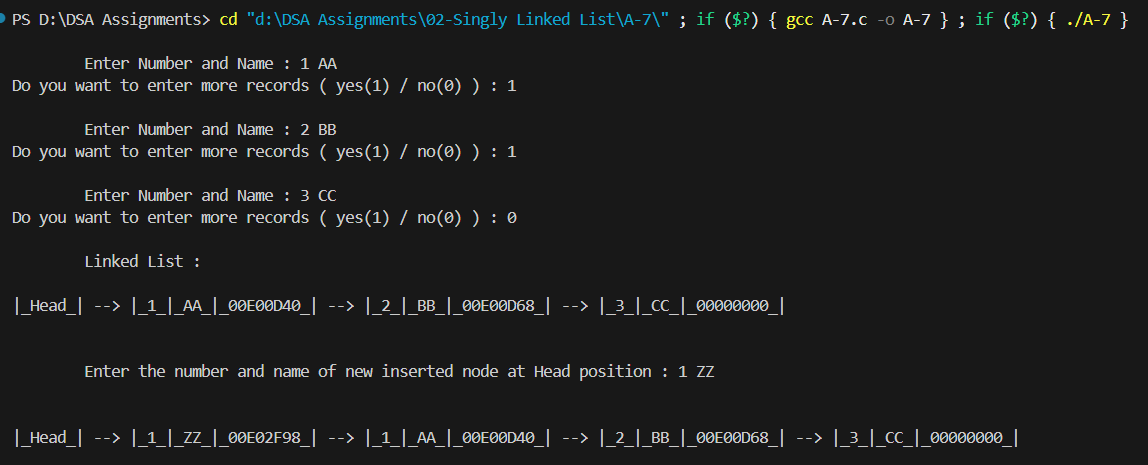
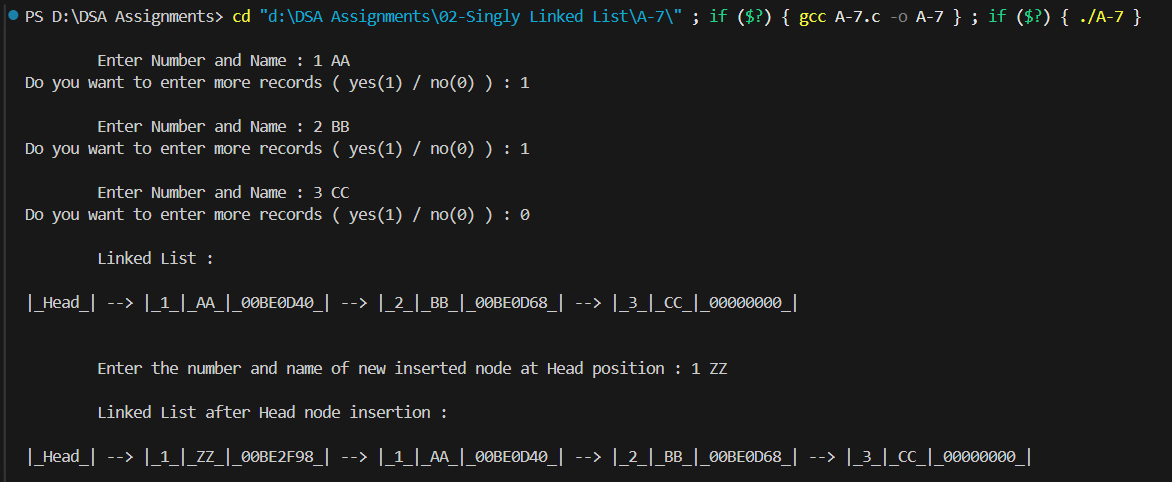
Singly Linked List Assignment No. 7

diff --git a/02-Singly Linked List/A-7/A-7.c b/02-Singly Linked List/A-7/A-7.c
@@ -85,6 +85,7 @@ void headNodeInsertion(SLLNode *head) {
     nw -> next = head;
     head = nw;
 
+    printf("\n\tLinked List after Head node insertion : ");
     displaySLL(head);
 
 }
@@ -125,7 +126,7 @@ void freeSLL(SLLNode *f) {
 
                     Enter the number and name of new inserted node at Head position : 1 ZZ
 
+                    Linked List after Head node insertion : 
 
-            |_Head_| --> |_1_|_ZZ_|_00BC2F98_| --> |_1_|_AA_|_00BC0D40_| --> |_2_|_BB_|_00BC0D68_| --> |_3_|_CC_|_00000000_|
-                         
+            |_Head_| --> |_1_|_ZZ_|_00BE2F98_| --> |_1_|_AA_|_00BE0D40_| --> |_2_|_BB_|_00BE0D68_| --> |_3_|_CC_|_00000000_|           
 */
